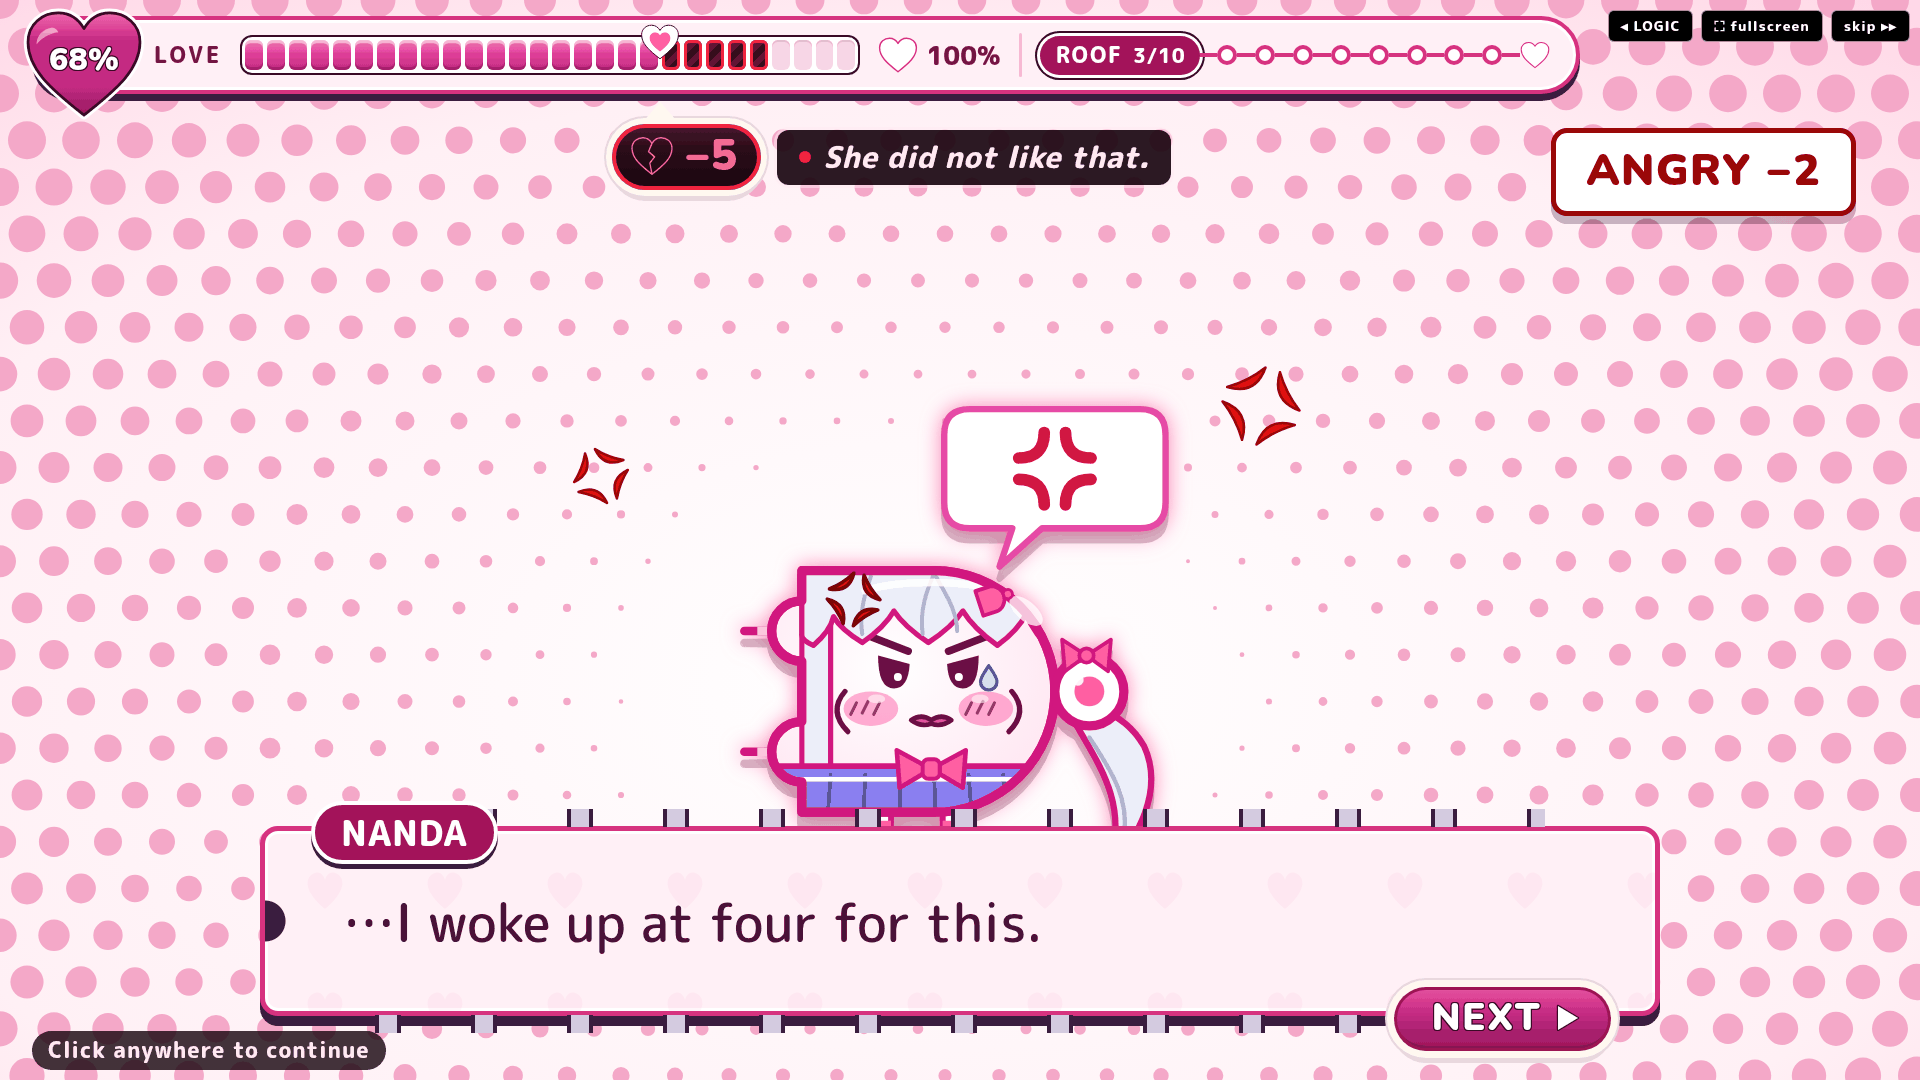
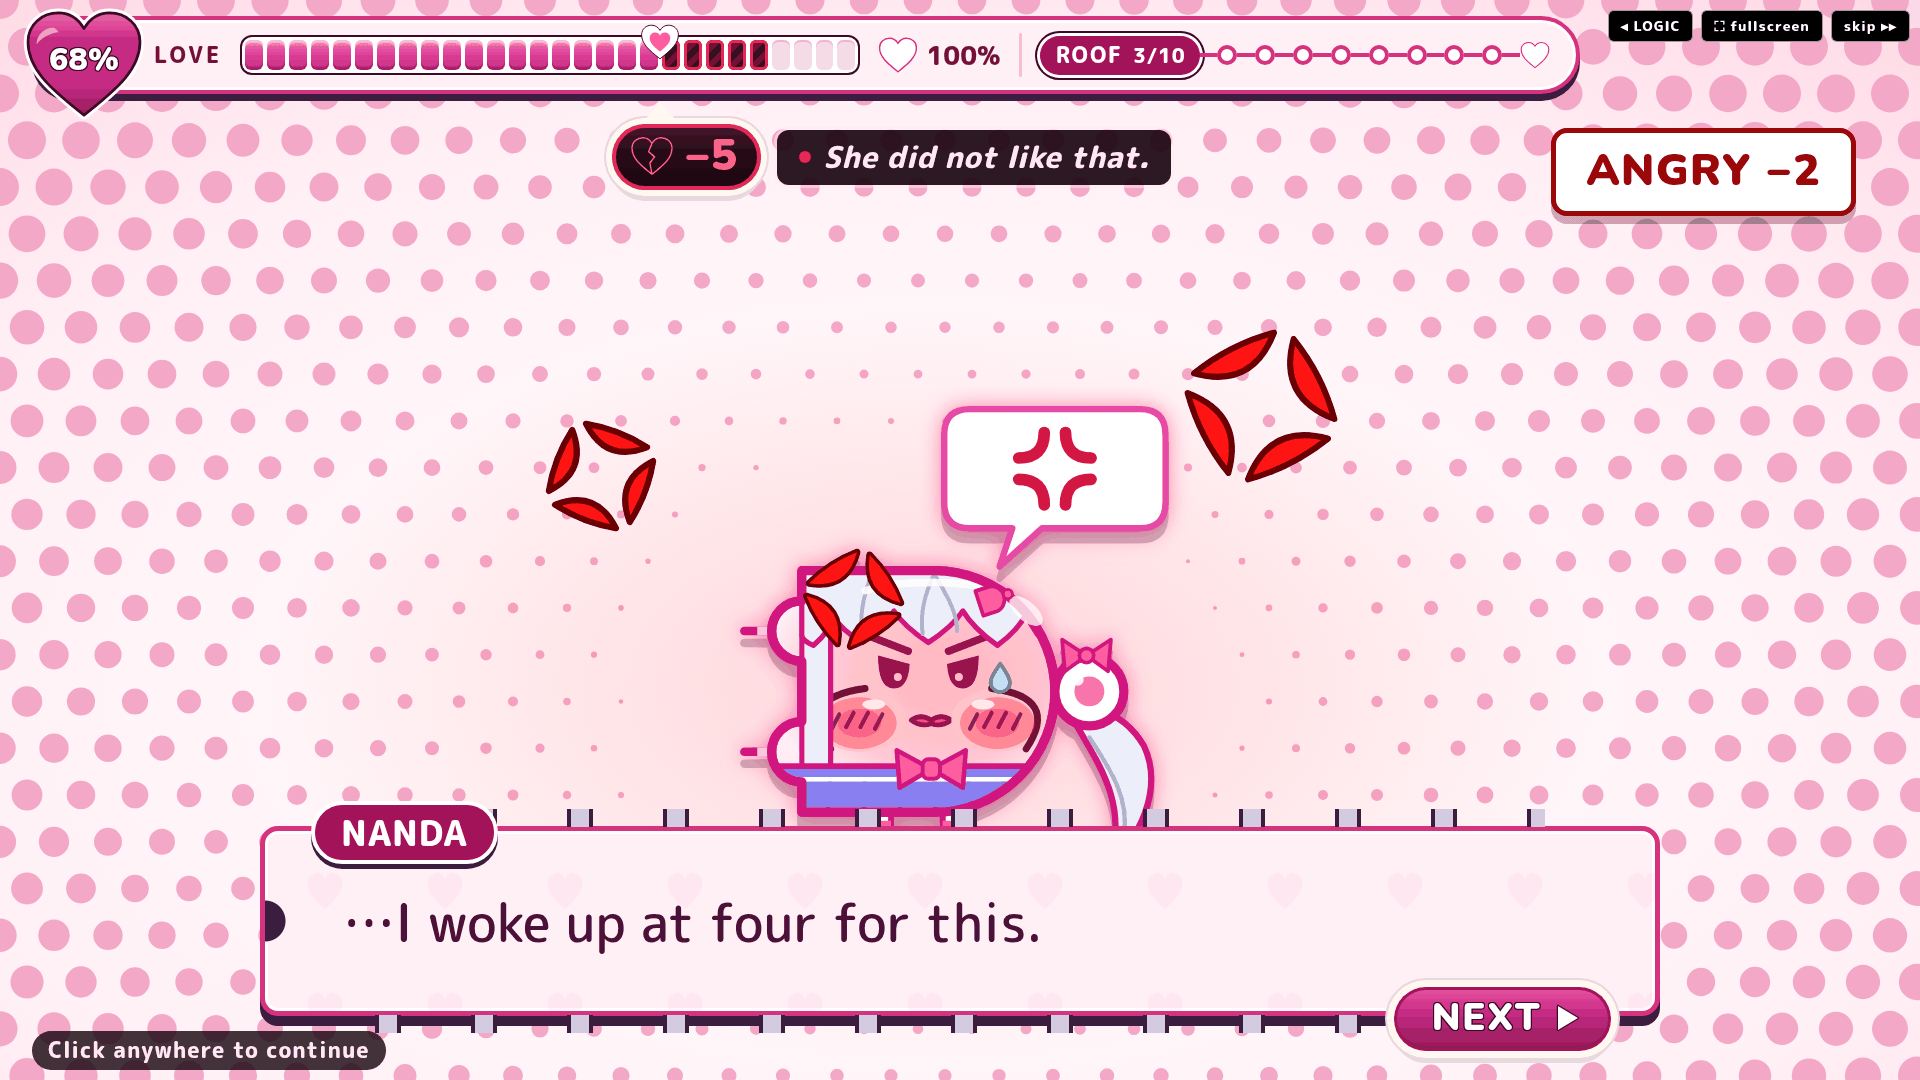
emotion-fx: Tony 0930 feedback - fatter puff, bolder growing vein, red flush
- puff: balloon cheeks, hot blush, soft red face flush
- vein: fatter 4-wedge mark, saturated red, stepped small->big (1.25x) after 600 ms, big only under reduced motion
- anger backdrop: bigger bold veins + red flush round her head; shots updated

Claude-Session: https://claude.ai/code/session_01SJvvUToGvjR4saHp1762z5

diff --git a/src/date-beta/art/emotion/face.js b/src/date-beta/art/emotion/face.js
@@ -9,24 +9,36 @@ import { STAR4, VEIN4, VEIN2 } from './shapes.js';
 export const FACE_IDS = ['vein', 'puff', 'shadow-eyes', 'sparkle'];
 const DROP = 'M0 -11C4 -5 8 0 8 4.5A8 8 0 0 1 -8 4.5C-8 0 -4 -5 0 -11Z';
 const star = (x, y, r, fill = '#fff', rot = 0) => `<path d="${STAR4}" transform="translate(${x} ${y}) rotate(${rot}) scale(${r})" fill="${fill}"/>`;
-const mark = (x, y, s, rot, two = false) => `<g transform="translate(${x} ${y}) rotate(${rot}) scale(${s})" fill="#e01010" stroke="#7a0606" stroke-width="${(1.2 / s).toFixed(3)}" stroke-linejoin="round">${two ? VEIN2 : VEIN4}</g>`;
+const mark = (x, y, s, rot, two = false) => `<g transform="translate(${x} ${y}) rotate(${rot}) scale(${s})" fill="#ff1414" stroke="#6a0000" stroke-width="${(2.4 / s).toFixed(3)}" stroke-linejoin="round" paint-order="stroke">${two ? VEIN2 : VEIN4}</g>`;
+// "Grows a bit": a stepped 2-frame swap (never tweened). Small first, then the big one (1.25x) from the stage's
+// data-emo-step="big" (EmotionFx sets it once, after 600 ms); under reduced motion only the big one ever shows (emotion.css).
+const grow = (x, y, s, rot, two) => `<g class="emo-v-s">${mark(x, y, s, rot, two)}</g><g class="emo-v-b">${mark(x, y, s * 1.25, rot, two)}</g>`;
 
 let uid = 0;
 const LAYERS = {
   // The 💢 mark on the fringe at her temple (+ a small one in the air next to her when she is furious).
-  vein: (P, A, o) => ({ over: mark(A.temple[0], A.temple[1], o.furious ? 10 : 9, 12) + (o.furious ? mark(A.air[0], A.air[1], 7, -18) : '') }),
+  vein: (P, A, o) => ({ over: grow(A.temple[0], A.temple[1], o.furious ? 14 : 13, 12) + (o.furious ? grow(A.air[0], A.air[1], 9, -18) : '') }),
   // Ref 11: puffed cheeks = a rounder cheek contour bulging out on each side, big blush with hatching, and a small
   // teardrop at the outer corner of her right eye. (The squashed mouth and pouting brows are her `puff` face in nanda.js.)
   puff: (P, A) => {
-    const [lx, ly] = A.cheekL, [rx, ry] = A.cheekR, ink = P.ink;
+    const [lx, ly] = A.cheekL, [rx, ry] = A.cheekR, ink = P.ink, [fx, fy] = A.face, n = ++uid, g = `emo-pf${n}`;
     const blush = P.blush === 'none' ? '#f5a0a0' : P.blush;
-    const cheek = (x, y, dir) => `<ellipse cx="${x}" cy="${y}" rx="9.5" ry="6" fill="${blush}" opacity=".5"/>`
-      + `<path d="M${x - 5},${y - 2} l-2,4 M${x - 1},${y - 2.5} l-2,4 M${x + 3},${y - 2} l-2,4" stroke="${ink}" stroke-width="1.1" stroke-linecap="round" opacity=".7"/>`
-      + `<path d="M${x + dir * 9},${y - 6} Q${x + dir * 15},${y + 1} ${x + dir * 8},${y + 8}" fill="none" stroke="${ink}" stroke-width="1.8" stroke-linecap="round"/>`
-      + `<ellipse cx="${x - dir * 2}" cy="${y - 3.4}" rx="3" ry="1.5" fill="#fff" opacity=".55"/>`;
+    // Chibi balloon cheeks: big round skin-tone bulges pushed out sideways, a bold outer contour, a hot blush core.
+    const cheek = (x, y, dir) => {
+      const cx = x + dir * 4; y += 4;
+      return `<ellipse cx="${cx}" cy="${y}" rx="16" ry="11" fill="#ffc4c8"/>`
+        + `<path d="M${cx - dir * 2},${y - 11} Q${cx + dir * 22},${y - 8} ${cx + dir * 10},${y + 10}" fill="none" stroke="${ink}" stroke-width="2.4" stroke-linecap="round"/>`
+        + `<ellipse cx="${cx}" cy="${y + 1}" rx="13" ry="9" fill="#ff5a6e" opacity=".55"/>`
+        + `<ellipse cx="${cx}" cy="${y + 1}" rx="7.5" ry="5" fill="#ff2e4c" opacity=".45"/>`
+        + `<path d="M${cx - 7},${y - 2} l-2.6,5 M${cx - 2},${y - 2.6} l-2.6,5 M${cx + 3},${y - 2.6} l-2.6,5 M${cx + 8},${y - 2} l-2.6,5" stroke="${ink}" stroke-width="1.4" stroke-linecap="round" opacity=".75"/>`
+        + `<ellipse cx="${cx - dir * 5}" cy="${y - 5.5}" rx="4" ry="1.8" fill="#fff" opacity=".8"/>`;
+    };
+    // Soft comic red flush over her face (not gore: a warm gradient, no hard edge).
+    const flush = `<defs><radialGradient id="${g}" cx=".5" cy=".5" r=".5"><stop offset="0" stop-color="#ff2a3c" stop-opacity=".34"/><stop offset=".7" stop-color="#ff2a3c" stop-opacity=".2"/><stop offset="1" stop-color="#ff2a3c" stop-opacity="0"/></radialGradient></defs>`
+      + `<ellipse cx="${fx}" cy="${fy - 4}" rx="58" ry="44" fill="url(#${g})"/>`;
     const [tx, ty] = A.tear;
-    return { under: cheek(lx, ly, -1) + cheek(rx, ry, 1)
-      + `<path d="${DROP}" transform="translate(${tx} ${ty}) scale(.36)" fill="#bfe6ff" stroke="#1f5f96" stroke-width="3" stroke-linejoin="round"/>` };
+    return { under: flush + cheek(lx, ly, -1) + cheek(rx, ry, 1)
+      + `<path d="${DROP}" transform="translate(${tx + 4} ${ty}) scale(.42)" fill="#bfe6ff" stroke="#1f5f96" stroke-width="3" stroke-linejoin="round"/>` };
   },
   // Hidden eyes: a dark band across both eyes, hard top edge under the bangs, soft lower edge (blurred), the upper face
   // darkened; two small white eyes glint through (ref 04's shrunken pupils). Nose/mouth stay visible.

diff --git a/src/date-beta-emotion.test.js b/src/date-beta-emotion.test.js
@@ -66,12 +66,23 @@ test('face layers: positioned from her anchors (move an anchor, the layer moves)
   assert.notEqual(faceLayers(['vein'], PAL[1], ANCHORS).over, faceLayers(['vein'], PAL[1], moved).over);
   assert.match(faceLayers(['vein'], PAL[1], moved).over, /translate\(40 30\)/);
   const furious = faceLayers(['shadow-eyes', 'vein'], PAL[5], ANCHORS).over;
-  assert.equal((furious.match(/<g /g) ?? []).length, 2, 'temple vein + one in the air');
+  assert.equal((furious.match(/<g transform/g) ?? []).length, 4, 'temple vein + one in the air, each small + big');
+});
+
+test('anger vein grows by ONE stepped swap (small -> 1.25x big), big only under reduced motion', () => {
+  const over = faceLayers(['vein'], PAL[1], ANCHORS).over;
+  assert.match(over, /class="emo-v-s"[^]*scale\(13\)[^]*class="emo-v-b"[^]*scale\(16\.25\)/);
+  assert.match(EMOTION_FX.anger(), /class="emo-v-s"[^]*class="emo-v-b"/);
+  const css = readFileSync(new URL('./date-beta/art/emotion/emotion.css', import.meta.url), 'utf8');
+  assert.match(css, /prefers-reduced-motion: reduce\)\s*\{\s*\.emo-v-s \{ display: none/);
+  const jsx = readFileSync(new URL('./date-beta/art/emotion/EmotionFx.jsx', import.meta.url), 'utf8');
+  const ms = Number(jsx.match(/setTimeout\([^]*?, (\d+)\)/)[1]);
+  assert.ok(ms >= 500, 'each step >= 500 ms (<= 2 Hz)');
 });
 
 test('face layers in nandaSVG: under sits after the face and before the fringe (bangs on top); over after the figure', () => {
   const svg = nandaSVG({ emote: 'hate', overlay: (P, A) => faceLayers(['shadow-eyes', 'vein'], P, A) });
-  const face = svg.indexOf('translate(57 52)'), band = svg.indexOf('emo-se'), fringe = svg.indexOf('V0Z" fill'), vein = svg.indexOf('#e01010');
+  const face = svg.indexOf('translate(57 52)'), band = svg.indexOf('emo-se'), fringe = svg.indexOf('V0Z" fill'), vein = svg.indexOf('#ff1414');
   assert.ok(face < band && band < fringe && fringe < vein, `${face} < ${band} < ${fringe} < ${vein}`);
   assert.equal(nandaSVG({ emote: 'hearts' }).includes('emo-'), false, 'no layers = the old figure');
 });

diff --git a/src/date-beta/art/emotion/EmotionFx.jsx b/src/date-beta/art/emotion/EmotionFx.jsx
@@ -1,15 +1,24 @@
 // EmotionFx.jsx: the gacha FX (engine react.gacha = { id, fx, face, label, bonus, base }). A still backdrop over the scene,
 // under Nanda, the dialogue box and the HUD; it stays up for the whole reaction frame and goes with it (a hard cut, no fade).
 // Meaning never rides on colour alone: the badge says the tier and the signed number, and is announced once (role=status).
-import { useMemo } from 'react';
+import { useEffect, useMemo, useRef } from 'react';
 import { EMOTION_FX } from './index.js';
 import './emotion.css';
 
 export function EmotionFx({ gacha }) {
   const art = useMemo(() => (gacha && EMOTION_FX[gacha.fx] ? EMOTION_FX[gacha.fx](gacha) : null), [gacha]);
+  const ref = useRef(null);
+  // Anger vein "grows a bit": ONE stepped swap small -> big after 600 ms (>= 500 ms per step, then it holds; 0 tweens).
+  // The flag sits on the stage so Nanda's face-layer vein swaps in the same frame. Reduced motion: CSS shows big only.
+  useEffect(() => {
+    const stage = ref.current?.parentElement;
+    if (!stage) return undefined;
+    const t = setTimeout(() => stage.setAttribute('data-emo-step', 'big'), 600);
+    return () => { clearTimeout(t); stage.removeAttribute('data-emo-step'); };
+  }, [art]);
   if (!art) return null;
   return (
-    <div className={`emo-fx emo-${gacha.fx}`} data-gacha={gacha.id}>
+    <div ref={ref} className={`emo-fx emo-${gacha.fx}`} data-gacha={gacha.id}>
       <div className="emo-bg" aria-hidden="true" dangerouslySetInnerHTML={{ __html: art }} />
       <p className="emo-badge" role="status">{gacha.label}</p>
     </div>

diff --git a/src/date-beta/art/emotion/fx.js b/src/date-beta/art/emotion/fx.js
@@ -60,8 +60,12 @@ export function loveBombSVG() {
 export function angerSVG() {
   const defs = `<radialGradient id="emo-an-bg" cx="${HEAD.x / W}" cy="${HEAD.y / H}" r=".8"><stop offset="0" stop-color="#ffffff"/><stop offset=".7" stop-color="#fff0f5"/><stop offset="1" stop-color="#ffd9e7"/></radialGradient>`;
   const dots = `<path d="${halftone()}" fill="#f4a8c8"/>`;
-  const marks = vein(HEAD.x + 330, HEAD.y - 280, 76, { rot: 18 }) + vein(HEAD.x - 330, HEAD.y - 210, 54, { rot: -24 });
-  return svg(defs, `<rect width="${W}" height="${H}" fill="url(#emo-an-bg)"/>${dots}${marks}`);
+  // Stepped grow (no tween): small set first, big set (1.25x) once the stage says data-emo-step="big" (emotion.css).
+  const set = (k) => vein(HEAD.x + 330, HEAD.y - 280, 118 * k, { rot: 18, fill: '#ff1414', edge: '#6a0000', bold: true })
+    + vein(HEAD.x - 330, HEAD.y - 210, 86 * k, { rot: -24, fill: '#ff1414', edge: '#6a0000', bold: true });
+  const flush = `<rect width="${W}" height="${H}" fill="url(#emo-an-flush)"/>`;
+  const fdefs = `<radialGradient id="emo-an-flush" cx="${HEAD.x / W}" cy="${HEAD.y / H}" r=".35"><stop offset="0" stop-color="#ff3a4a" stop-opacity=".22"/><stop offset="1" stop-color="#ff3a4a" stop-opacity="0"/></radialGradient>`;
+  return svg(defs + fdefs, `<rect width="${W}" height="${H}" fill="url(#emo-an-bg)"/>${dots}${flush}<g class="emo-v-s">${set(1)}</g><g class="emo-v-b">${set(1.25)}</g>`);
 }
 
 export function rageSVG() {

diff --git a/src/date-beta/art/emotion/shapes.js b/src/date-beta/art/emotion/shapes.js
@@ -76,12 +76,12 @@ export function hexagon(x, y, r, rot = 0) {
 
 // Anger vein (ref 03 icon 1, the 💢 mark): 4 crescents in the diagonal corners, each bowing in toward the centre with
 // its two tips pointing out along the axes; fat in the middle, pointed tips, and the pieces never touch. Unit box -1..1.
-const WEDGE = 'M-.2 -1Q-.22 -.22 -1 -.2Q-.52 -.52 -.2 -1Z';
+const WEDGE = 'M-.14 -1Q-.18 -.18 -1 -.14Q-.66 -.66 -.14 -1Z'; // fat, bold crescents (chibi manga)
 export const VEIN4 = [0, 90, 180, 270].map((a) => `<path d="${WEDGE}" transform="rotate(${a})"/>`).join('');
 // Two opposing wedges (ref 03 icon 8): the small "vein in the air".
 export const VEIN2 = [0, 180].map((a) => `<path d="${WEDGE}" transform="rotate(${a})"/>`).join('');
-export function vein(x, y, size, { rot = 12, two = false, fill = '#e01010', edge = '#9a0808' } = {}) {
-  const sw = f3(2.5 / (size / 2));
+export function vein(x, y, size, { rot = 12, two = false, fill = '#e01010', edge = '#9a0808', bold = false } = {}) {
+  const sw = f3((bold ? 6 : 2.5) / (size / 2));
   return `<g transform="translate(${f1(x)} ${f1(y)}) rotate(${rot}) scale(${f1(size / 2)})" fill="${fill}" stroke="${edge}" stroke-width="${sw}" stroke-linejoin="round">${two ? VEIN2 : VEIN4}</g>`;
 }
 

diff --git a/src/date-beta/art/emotion/emotion.css b/src/date-beta/art/emotion/emotion.css
@@ -9,3 +9,9 @@
 .emo-love-bomb .emo-badge { color: #6b0f45; border-color: #d1177f; }
 .emo-anger .emo-badge { color: #9a0808; border-color: #9a0808; }
 .emo-rage .emo-badge { background: #1a1020; color: #f4f8c8; border-color: #f4f8c8; box-shadow: 0 8px 0 rgba(0, 0, 0, .5); }
+/* Anger vein stepped grow: small, then big (1.25x) once the stage has data-emo-step="big" (one swap, then it holds).
+   Reduced motion: the big one only, from the first frame. */
+.emo-v-b { display: none; }
+[data-emo-step="big"] .emo-v-s { display: none; }
+[data-emo-step="big"] .emo-v-b { display: inline; }
+@media (prefers-reduced-motion: reduce) { .emo-v-s { display: none !important; } .emo-v-b { display: inline !important; } }

diff --git a/research/sprint-0930/emotion-fx/SCHEMA.md b/research/sprint-0930/emotion-fx/SCHEMA.md
@@ -73,7 +73,10 @@ tier = { "id": "crit10", "bonus": 10, "rate": 0.07, "fx": "love-crit", "face": [
   sparkle = 4-point stars in both eye highlights + 5 round her head.
 
 ## Motion + a11y
-- No animation at all: no keyframes, transitions, SMIL or timers (tested). Reduced motion = the same stills. 0 Hz flashes.
+- No tweened animation: no keyframes, transitions or SMIL (tested). One exception, the anger vein "grows a bit": a stepped
+  2-frame swap, small -> big (1.25x), via ONE 600 ms setTimeout in `EmotionFx` that sets `data-emo-step="big"` on the stage
+  (`.emo-v-s` / `.emo-v-b` in `emotion.css`), then it holds. Reduced motion: big only from frame 1. < 2 Hz, no flashes.
+- Puff (Tony 0930): fat balloon cheeks + hot blush + a soft red face flush; the anger backdrop has a red flush round her head.
 - Seeded layouts (fixed seeds per FX): the same tier always draws the same picture. Node budget <= 300 per FX; blur on <= 2 groups.
 - Text: the dialogue box keeps its opaque plate; badges: #7a0f4e / #6b0f45 / #9a0808 on #fff (8-12:1), #f4f8c8 on #1a1020 (~16:1).
   Meaning never by colour only: the badge + HUD pop carry the signed number and a word.
